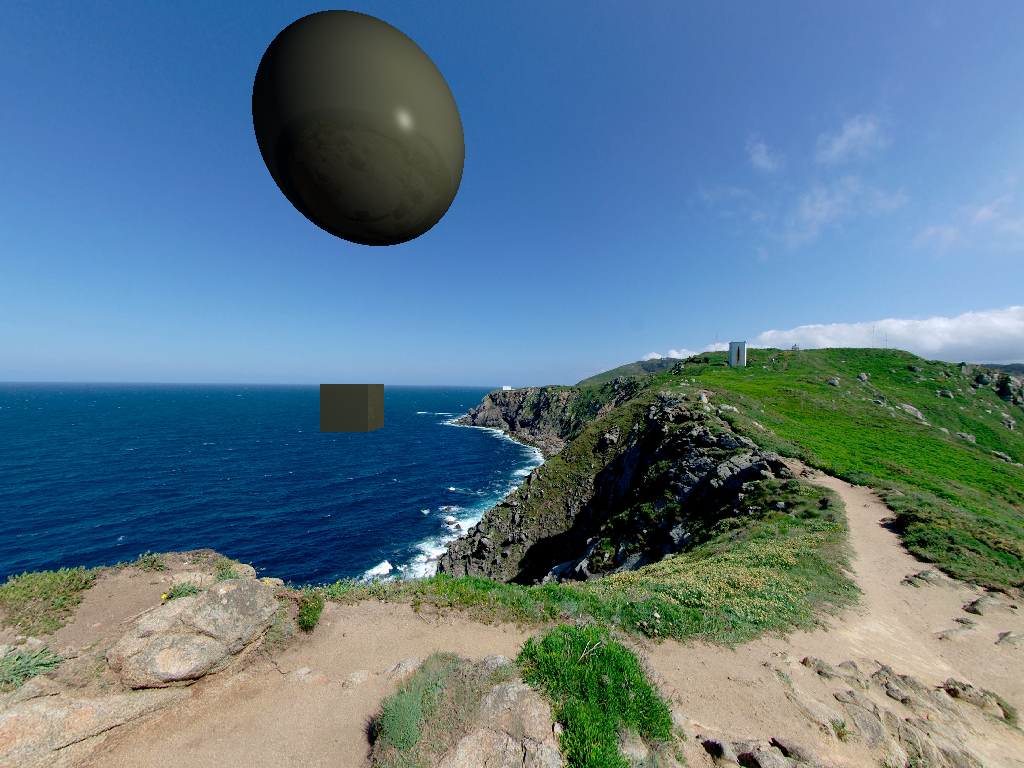
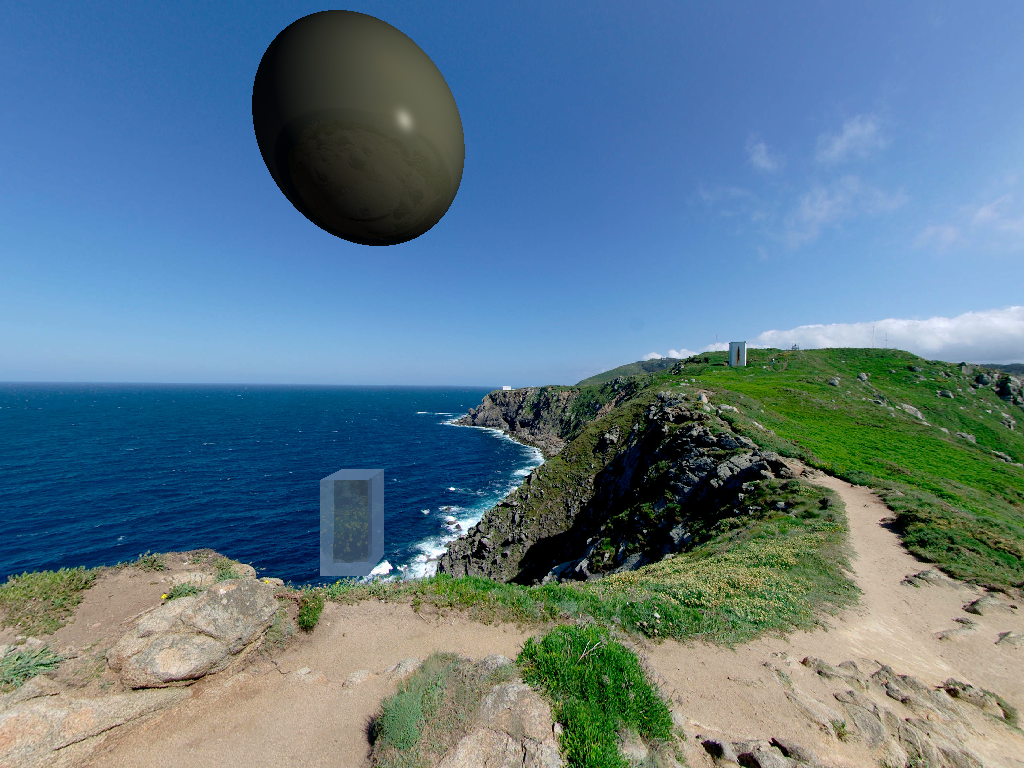
Implement naive triangle-ray intersections

Changed region(s): [[0.3125, 0.5938, 0.375, 0.75], [0.3125, 0.5, 0.375, 0.5625]]

diff --git a/src/init.rs b/src/init.rs
@@ -5,7 +5,7 @@ use glam::{Vec3, Vec4};
 use image::{DynamicImage, ImageReader};
 use serde_json::Value;
 
-use crate::structures::{AABB, Color, Light, Material, Scene, Sphere, Traceable};
+use crate::structures::{AABB, Color, Light, Material, Scene, Sphere, Traceable, Triangle};
 
 #[derive(Parser)]
 struct Arguments {
@@ -147,34 +147,41 @@ fn default_scene() -> Scene {
         specular_exponent: 125f32,
         refractive_index: 1.5f32,
     };
-    objects.push(Box::new(Sphere {
-        center: Vec3::new(-3f32, 0f32, -8f32),
-        radius: 2f32,
-        material: ivory,
-    }));
-    objects.push(Box::new(Sphere {
-        center: Vec3::new(-1f32, -1.5f32, -6f32),
-        radius: 2f32,
-        material: ivory,
-    }));
-    objects.push(Box::new(Sphere {
-        center: Vec3::new(1.5f32, -0.5f32, -9f32),
-        radius: 2f32,
-        material: red,
-    }));
-    objects.push(Box::new(Sphere {
-        center: Vec3::new(-1f32, 3.5f32, -7f32),
-        radius: 2f32,
-        material: red,
-    }));
-    objects.push(Box::new(Sphere {
-        center: Vec3::new(3f32, -3f32, -6f32),
-        radius: 2f32,
-        material: mirror,
-    }));
-    objects.push(Box::new(Sphere {
-        center: Vec3::new(-3f32, 3f32, -5f32),
-        radius: 2f32,
+    // objects.push(Box::new(Sphere {
+    //     center: Vec3::new(-3f32, 0f32, -8f32),
+    //     radius: 2f32,
+    //     material: ivory,
+    // }));
+    // objects.push(Box::new(Sphere {
+    //     center: Vec3::new(-1f32, -1.5f32, -6f32),
+    //     radius: 2f32,
+    //     material: ivory,
+    // }));
+    // objects.push(Box::new(Sphere {
+    //     center: Vec3::new(1.5f32, -0.5f32, -9f32),
+    //     radius: 2f32,
+    //     material: red,
+    // }));
+    // objects.push(Box::new(Sphere {
+    //     center: Vec3::new(-1f32, 3.5f32, -7f32),
+    //     radius: 2f32,
+    //     material: red,
+    // }));
+    // objects.push(Box::new(Sphere {
+    //     center: Vec3::new(3f32, -3f32, -6f32),
+    //     radius: 2f32,
+    //     material: mirror,
+    // }));
+    // objects.push(Box::new(Sphere {
+    //     center: Vec3::new(-3f32, 3f32, -5f32),
+    //     radius: 2f32,
+    //     material: glass,
+    // }));
+
+    objects.push(Box::new(Triangle {
+        v0: Vec3::new(-3f32, 0f32, -7f32),
+        v1: Vec3::new(0f32, 3f32, -5f32),
+        v2: Vec3::new(3f32, 0f32, -6f32),
         material: glass,
     }));
 

diff --git a/src/structures.rs b/src/structures.rs
@@ -2,6 +2,8 @@ use glam::{Vec3, Vec4};
 use image::{DynamicImage, Rgb};
 use serde::{Deserialize, Serialize};
 
+pub const EPSILON: f32 = 1e-4;
+
 pub struct Scene {
     pub lights: Vec<Light>,
     pub objects: Vec<Box<dyn Traceable>>,
@@ -97,6 +99,62 @@ impl Color {
     }
 }
 
+pub struct Triangle {
+    pub v0: Vec3,
+    pub v1: Vec3,
+    pub v2: Vec3,
+    pub material: Material,
+}
+
+impl Traceable for Triangle {
+    fn intersection(&self, origin: &Vec3, direction: &Vec3) -> Option<Intersection> {
+        let v0v1 = self.v1 - self.v0;
+        let v0v2 = self.v2 - self.v0;
+        let normal = v0v1.cross(v0v2);
+
+        let normal_dot_direction = normal.dot(*direction);
+        if normal_dot_direction.abs() < EPSILON {
+            return None;
+        }
+
+        let d = -normal.dot(self.v0);
+        let t = -(normal.dot(*origin) + d) / normal_dot_direction;
+
+        if t < 0f32 {
+            return None;
+        }
+        let p = origin + t * direction;
+
+        let v0p = p - self.v0;
+        let mut ne = v0v1.cross(v0p);
+
+        if normal.dot(ne) < 0f32 {
+            return None;
+        }
+
+        let v1v2 = self.v2 - self.v1;
+        let v1p = p - self.v1;
+
+        ne = v1v2.cross(v1p);
+        if normal.dot(ne) < 0f32 {
+            return None;
+        }
+
+        let v2v0 = self.v0 - self.v2;
+        let v2p = p - self.v2;
+        ne = v2v0.cross(v2p);
+        if normal.dot(ne) < 0f32 {
+            return None;
+        }
+
+        Some(Intersection {
+            point: p,
+            normal,
+            material: self.material,
+        })
+    }
+}
+
 pub struct AABB {
     pub min: Vec3,
     pub max: Vec3,
@@ -156,7 +214,7 @@ impl Traceable for AABB {
         let point_relative_to_center = hit_point - center;
         let half_extents = (self.max - self.min) * 0.5;
 
-        let epsilon = 1e-4;
+        let epsilon = EPSILON;
 
         let mut normal = Vec3::ZERO;
 
